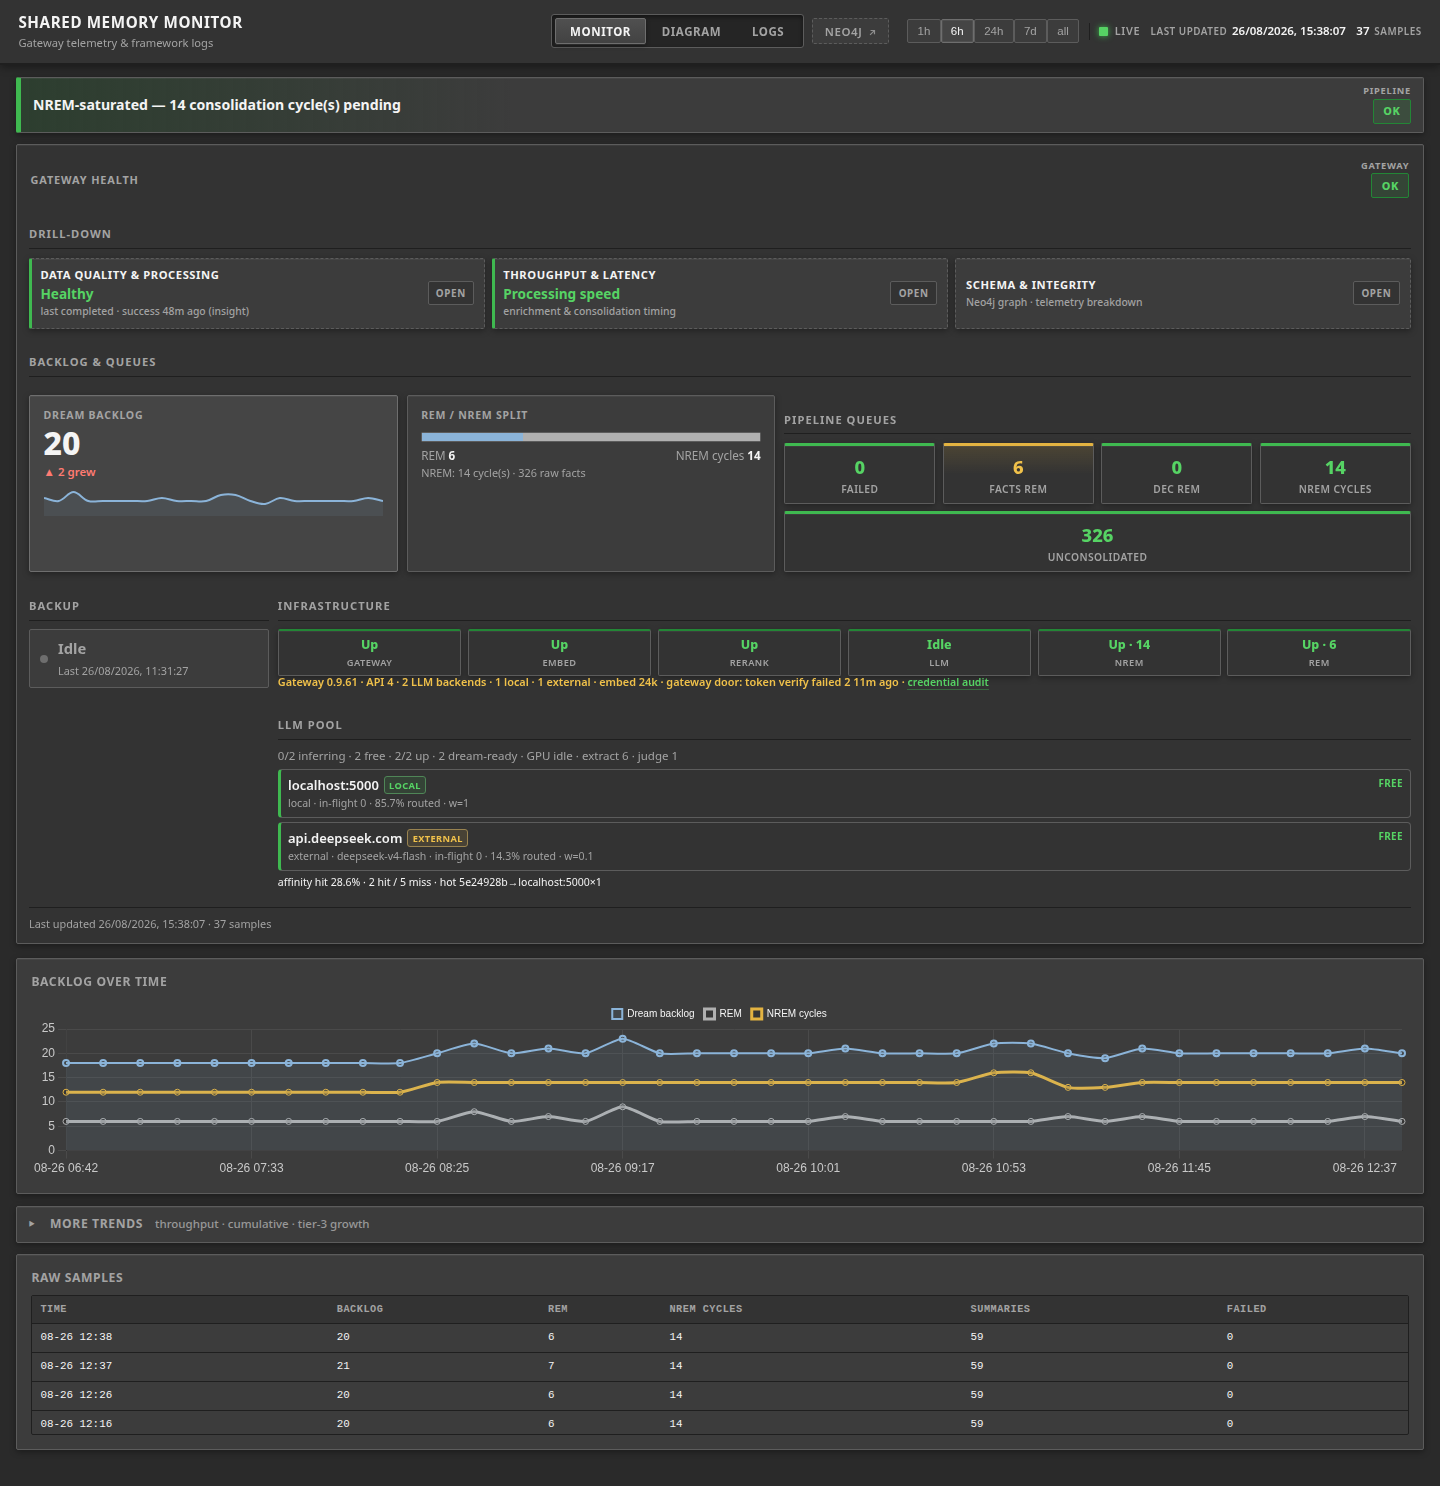
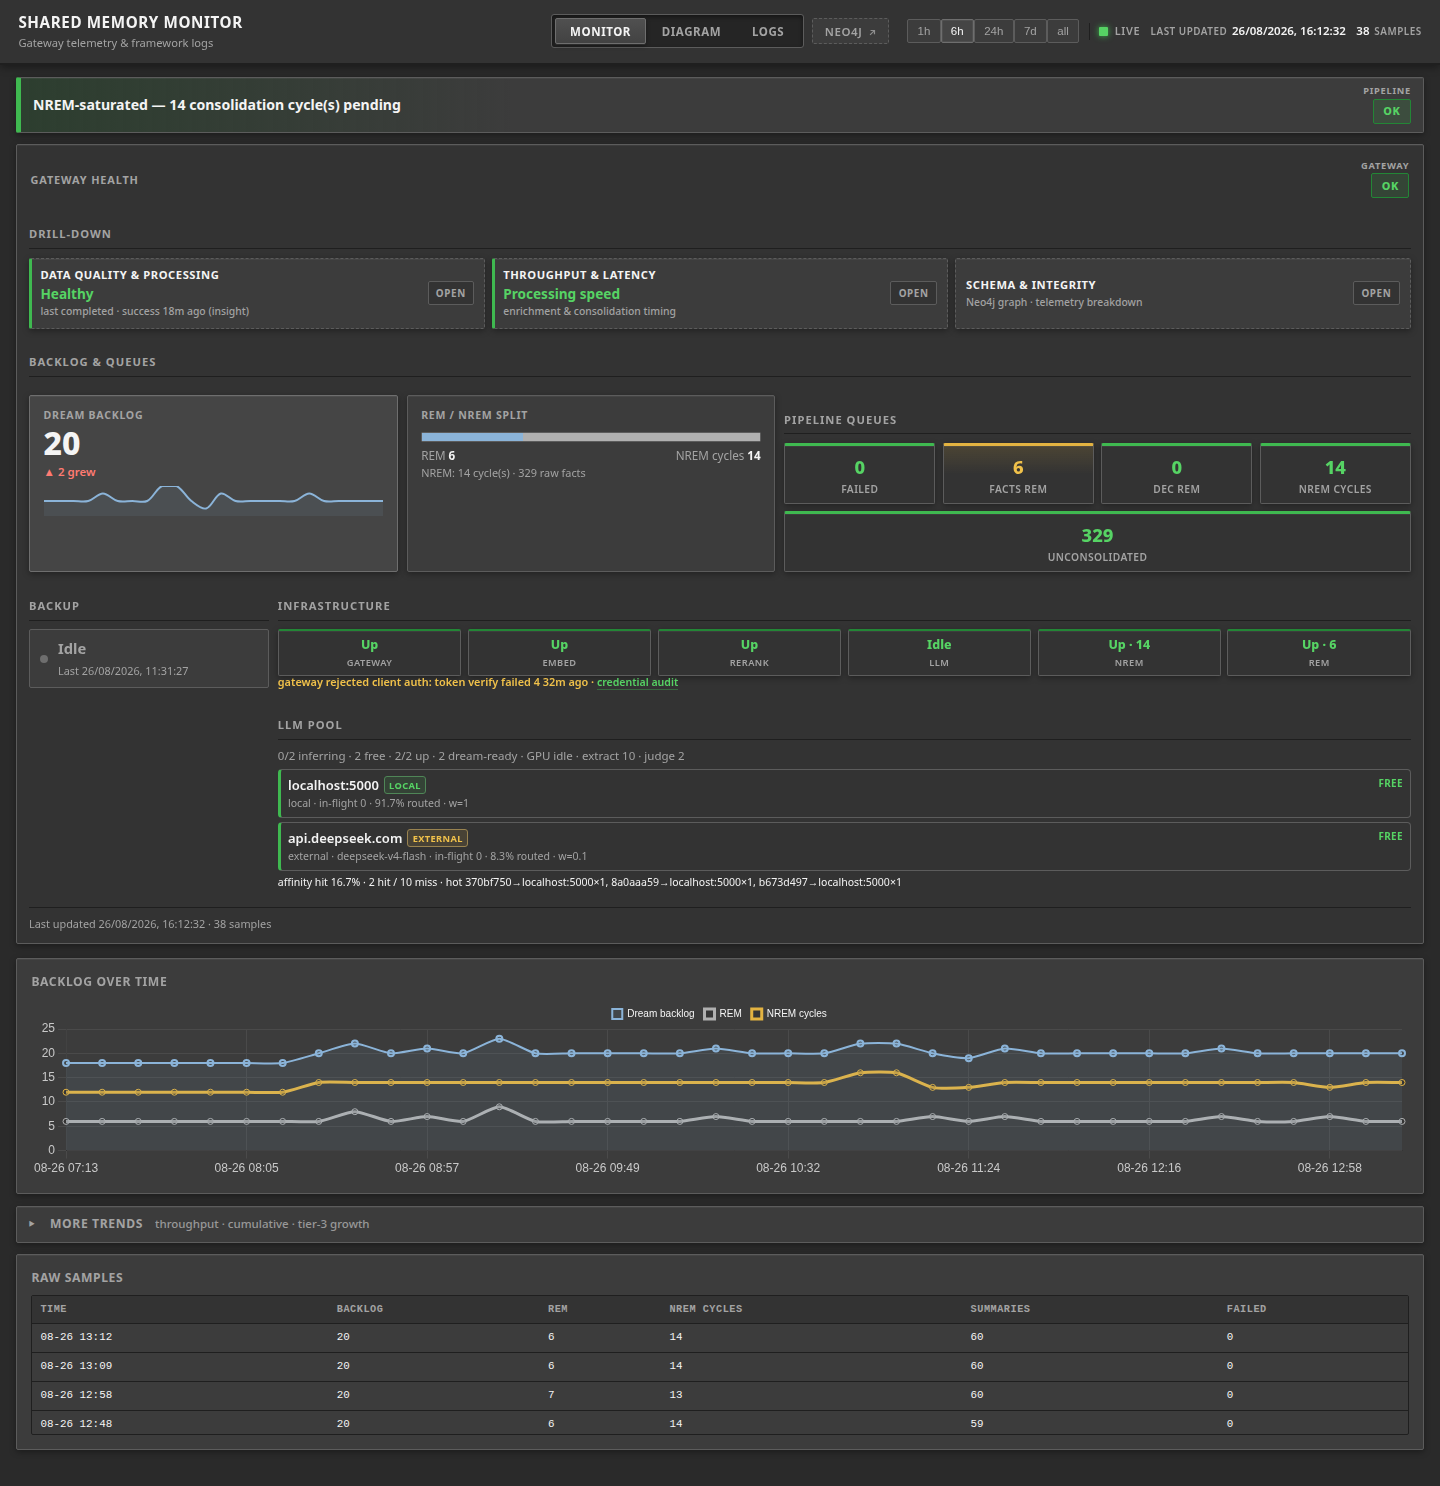
ui: adjust gateway config and auth failure placement
- Moved gateway daemon details (version, API, backend counts, tunings) to the tooltip of the Gateway health item to associate it directly with the gateway's status.
- Clarified the unauthenticated/rejected token warning label on the dashboard hint to explicitly state it is a 'gateway rejected client auth' to avoid operators mistaking it for a monitor token failure.

diff --git a/static/dashboard.html b/static/dashboard.html
@@ -1877,54 +1877,33 @@ function renderSystemHealth(H) {
   renderLlmPool(H);
   renderGraphIntegrity(H);
 
+  const gwHint = gatewayConfigHint(H);
   const byKey = Object.fromEntries((H?.components || []).map(c => [c.key, c]));
   document.querySelectorAll("#system-health-row .health-item").forEach(el => {
+    const isGw = el.dataset.key === "gateway";
     const c = byKey[el.dataset.key];
     const nEl = el.querySelector(".n");
     if (!c) {
       el.className = "health-item unknown";
       nEl.textContent = H?.reachable === false ? "down" : "—";
       nEl.className = "n bad";
-      nEl.title = "";
+      nEl.title = isGw ? (gwHint || "") : "";
+      if (isGw) el.title = gwHint || "";
       return;
     }
     const line = healthLine(c);
     nEl.textContent = line.text;
     nEl.className = "n " + line.state;
-    nEl.title = line.title;
+    nEl.title = isGw ? (line.title ? `${line.title} · ${gwHint}` : gwHint) : line.title;
+    if (isGw) el.title = gwHint || "";
     el.className = "health-item " + healthUiState(c.state || "unknown");
   });
 
-  const hint = document.getElementById("system-hint");
-  const hintText = gatewayConfigHint(H);
-  const unauthWarn = H?.config?.allow_unauthenticated_provider_keys === true;
-  const creds = H?.credentials;
-  const tokenFailed = Number(creds?.token_verify_failed) || 0;
-  const auditDropped = Number(creds?.audit_log_dropped) || 0;
-  const doorWarn = tokenFailed > 0 || auditDropped > 0;
-  if (hint) {
-    const isWarn = unauthWarn || doorWarn;
-    hint.className = "hint sidebar-hint" + (isWarn ? " warn" : "");
-    if (doorWarn) {
-      const doorBits = [];
-      if (tokenFailed > 0) {
-        const ageTxt = fmtLastEventAge(creds?.token_verify_failed_last_ts);
-        doorBits.push(`token verify failed ${tokenFailed}` + (ageTxt ? ` ${ageTxt}` : ""));
-      }
-      if (auditDropped > 0) {
-        const ageTxt = fmtLastEventAge(creds?.audit_log_dropped_last_ts);
-        doorBits.push("audit log dropped" + (ageTxt ? ` ${ageTxt}` : ""));
-      }
-      const doorText = "gateway door: " + doorBits.join(" · ");
-      const baseText = hintText ? `${hintText} · ${doorText}` : doorText;
-      hint.innerHTML = `${esc(baseText)} · <a class="pool-pop-link" href="/logs?source=credential_audit">credential audit</a>`;
-    } else {
-      hint.textContent = hintText;
-    }
-  }
-  // Richer title: per-backend list + pool tuning when present (no secrets).
+  // Richer title on gateway item: per-backend list + pool tuning when present (no secrets).
   const cfg = H?.config;
-  if (hint && cfg?.present) {
+  const gwItem = document.querySelector('#system-health-row [data-key="gateway"]');
+  const gwEl = gwItem?.querySelector(".n");
+  if (cfg?.present) {
     const lines = [];
     if (cfg.backends?.length) {
       lines.push("Backends: " + cfg.backends.map(b =>
@@ -1939,8 +1918,51 @@ function renderSystemHealth(H) {
       lines.push(`Affinity: prefix ${aff.prefix_chars} · ttl ${aff.ttl_s ?? "—"}s · max inflight ${aff.max_inflight ?? "—"}`);
     }
     if (cfg.embed_max_chars != null) lines.push(`Embed max chars: ${cfg.embed_max_chars}`);
-    hint.title = lines.join("\n");
-  } else if (hint) {
+    if (lines.length) {
+      const extra = lines.join("\n");
+      if (gwItem) gwItem.title = gwItem.title ? `${gwItem.title}\n${extra}` : extra;
+      if (gwEl) gwEl.title = gwEl.title ? `${gwEl.title}\n${extra}` : extra;
+    }
+  }
+
+  const hint = document.getElementById("system-hint");
+  const unauthWarn = H?.config?.allow_unauthenticated_provider_keys === true;
+  const creds = H?.credentials;
+  const tokenFailed = Number(creds?.token_verify_failed) || 0;
+  const auditDropped = Number(creds?.audit_log_dropped) || 0;
+  const doorWarn = tokenFailed > 0 || auditDropped > 0;
+  if (hint) {
+    const isWarn = unauthWarn || doorWarn;
+    hint.className = "hint sidebar-hint" + (isWarn ? " warn" : "");
+    const hintParts = [];
+    if (unauthWarn) {
+      hintParts.push("allow_unauthenticated_provider_keys: true");
+    }
+    if (doorWarn) {
+      const doorBits = [];
+      if (tokenFailed > 0) {
+        const ageTxt = fmtLastEventAge(creds?.token_verify_failed_last_ts);
+        doorBits.push(`token verify failed ${tokenFailed}` + (ageTxt ? ` ${ageTxt}` : ""));
+      }
+      if (auditDropped > 0) {
+        const ageTxt = fmtLastEventAge(creds?.audit_log_dropped_last_ts);
+        doorBits.push("audit log dropped" + (ageTxt ? ` ${ageTxt}` : ""));
+      }
+      hintParts.push("gateway rejected client auth: " + doorBits.join(" · "));
+    }
+    
+    if (hintParts.length > 0) {
+      const hintHtml = hintParts.map(p => esc(p)).join(" · ");
+      if (doorWarn) {
+        hint.innerHTML = `${hintHtml} · <a class="pool-pop-link" href="/logs?source=credential_audit">credential audit</a>`;
+      } else {
+        hint.innerHTML = hintHtml;
+      }
+      hint.hidden = false;
+    } else {
+      hint.textContent = "";
+      hint.hidden = true;
+    }
     hint.title = "";
   }
 }
